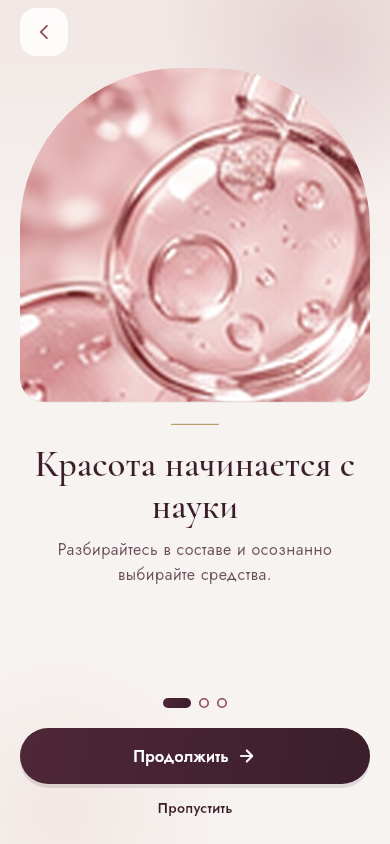
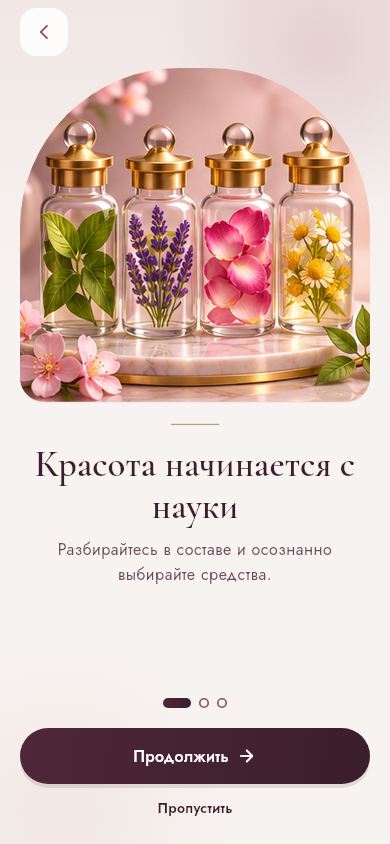
feat(design): Ibn Sino, Pro, tanishuv sahifalari va ritual-darslar uchun mavzuli lyuks rasmlar
Claude-Session: https://claude.ai/code/session_01DHMppTHpVgUVFN7o5nWH6w

Changed region(s): [[0.0308, 0.0616, 0.9538, 0.4929]]

diff --git a/mobile/lib/features/home/home_page.dart b/mobile/lib/features/home/home_page.dart
@@ -252,14 +252,16 @@ class HomePage extends StatelessWidget {
                         child: Row(
                           children: [
                             Container(
-                              width: 54,
-                              height: 54,
+                              width: 64,
+                              height: 76,
                               decoration: BoxDecoration(
-                                shape: BoxShape.circle,
+                                borderRadius: const BorderRadius.vertical(top: Radius.circular(32), bottom: Radius.circular(12)),
                                 border: Border.all(color: SamiyaColors.gold),
-                                gradient: const LinearGradient(colors: [Color(0xFFFBF6F2), Color(0xFFEBDCD3)]),
                               ),
-                              child: const Icon(Icons.menu_book_rounded, color: SamiyaColors.heading),
+                              child: ClipRRect(
+                                borderRadius: const BorderRadius.vertical(top: Radius.circular(31), bottom: Radius.circular(11)),
+                                child: Image.asset('assets/tiles/ibnsina.jpg', fit: BoxFit.cover),
+                              ),
                             ),
                             const SizedBox(width: 14),
                             Expanded(

diff --git a/mobile/test/academy_test.dart b/mobile/test/academy_test.dart
@@ -3,6 +3,7 @@ import 'dart:io';
 import 'package:flutter/material.dart';
 import 'package:flutter_test/flutter_test.dart';
 import 'package:samiya_beauty_lab/app/app_state.dart';
+import 'package:samiya_beauty_lab/features/care/care_models.dart';
 import 'package:samiya_beauty_lab/features/scanner/ingredient_models.dart';
 import 'package:shared_preferences/shared_preferences.dart';
 
@@ -37,7 +38,7 @@ void main() {
     expect(repo.rituals.length, greaterThanOrEqualTo(12));
     for (final r in repo.recipes) {
       expect(r.safety, isNotEmpty);
-      expect(File('assets/photos/${r.photo}.jpg').existsSync(), isTrue, reason: r.id);
+      expect(File(carePhoto(r.photo)).existsSync(), isTrue, reason: r.id);
       for (final i in r.ingredients) {
         expect(repo.bySlug(i), isNotNull, reason: '${r.id}: $i');
       }
@@ -48,7 +49,7 @@ void main() {
     }
     for (final r in repo.rituals) {
       expect(r.totalSeconds, inInclusiveRange(120, 900));
-      expect(File('assets/photos/${r.photo}.jpg').existsSync(), isTrue);
+      expect(File(carePhoto(r.photo)).existsSync(), isTrue, reason: r.id);
     }
   });
 

diff --git a/mobile/lib/features/pro/pro_page.dart b/mobile/lib/features/pro/pro_page.dart
@@ -4,7 +4,7 @@ import 'package:go_router/go_router.dart';
 import '../../app/app_state.dart';
 import '../../app/theme.dart';
 import '../../l10n/app_localizations.dart';
-import '../../ui/brand.dart';
+import '../../ui/arch_photo.dart';
 import '../../ui/safe_nav.dart';
 import '../../ui/widgets.dart';
 
@@ -42,7 +42,7 @@ class ProPage extends StatelessWidget {
                 child: ListView(
                   padding: const EdgeInsetsDirectional.fromSTEB(20, 4, 20, 28),
                   children: [
-                    const Center(child: SamiyaMark(size: 84)),
+                    const ArchPhoto('assets/tiles/pro.jpg', height: 210),
                     const SizedBox(height: 14),
                     Text('SAMIYA Pro', textAlign: TextAlign.center, style: t.headlineMedium?.copyWith(fontSize: 34)),
                     const SizedBox(height: 6),

diff --git a/mobile/lib/features/scanner/ibn_sina_page.dart b/mobile/lib/features/scanner/ibn_sina_page.dart
@@ -1,6 +1,7 @@
 import 'package:flutter/material.dart';
 
 import '../../app/pro_gate.dart';
+import '../../ui/arch_photo.dart';
 import '../pro/pro_page.dart';
 import 'ingredient_models.dart';
 
@@ -35,6 +36,8 @@ class IbnSinaPage extends StatelessWidget {
                     crossAxisAlignment: CrossAxisAlignment.start,
                     children: [
                       const SizedBox(height: 8),
+                      const ArchPhoto('assets/tiles/ibnsina.jpg', height: 200),
+                      const SizedBox(height: 16),
                       Text(intro?.titleFor(lang) ?? l.ibnSinaMore, style: t.headlineMedium),
                       const SizedBox(height: 6),
                       Container(height: 1, width: 64, color: SamiyaColors.gold),

diff --git a/mobile/lib/features/onboarding/onboarding_page.dart b/mobile/lib/features/onboarding/onboarding_page.dart
@@ -46,9 +46,9 @@ class _OnboardingPageState extends State<OnboardingPage> {
   Widget build(BuildContext context) {
     final l = AppLocalizations.of(context);
     final slides = [
-      (l.onboarding1Title, l.onboarding1Body, 'assets/images/ob1_ingredients.png'),
-      (l.onboarding2Title, l.onboarding2Body, 'assets/images/ob2_routine.png'),
-      (l.onboarding3Title, l.onboarding3Body, 'assets/images/ob3_learn.png'),
+      (l.onboarding1Title, l.onboarding1Body, 'assets/tiles/ingredients.jpg'),
+      (l.onboarding2Title, l.onboarding2Body, 'assets/tiles/morning.jpg'),
+      (l.onboarding3Title, l.onboarding3Body, 'assets/tiles/academy.jpg'),
     ];
     final last = _index == _pages - 1;
     return Scaffold(

diff --git a/mobile/lib/features/care/care_models.dart b/mobile/lib/features/care/care_models.dart
@@ -75,4 +75,8 @@ class Ritual {
 }
 
 /// Rasm: ingredient slug yoki deco_* nomi -> asset yo'li.
-String carePhoto(String? p) => p == null ? 'assets/photos/deco_peony.jpg' : 'assets/photos/$p.jpg';
+String carePhoto(String? p) => p == null
+    ? 'assets/tiles/rituals.jpg'
+    : p.startsWith('tiles/')
+        ? 'assets/$p.jpg'
+        : 'assets/photos/$p.jpg';
